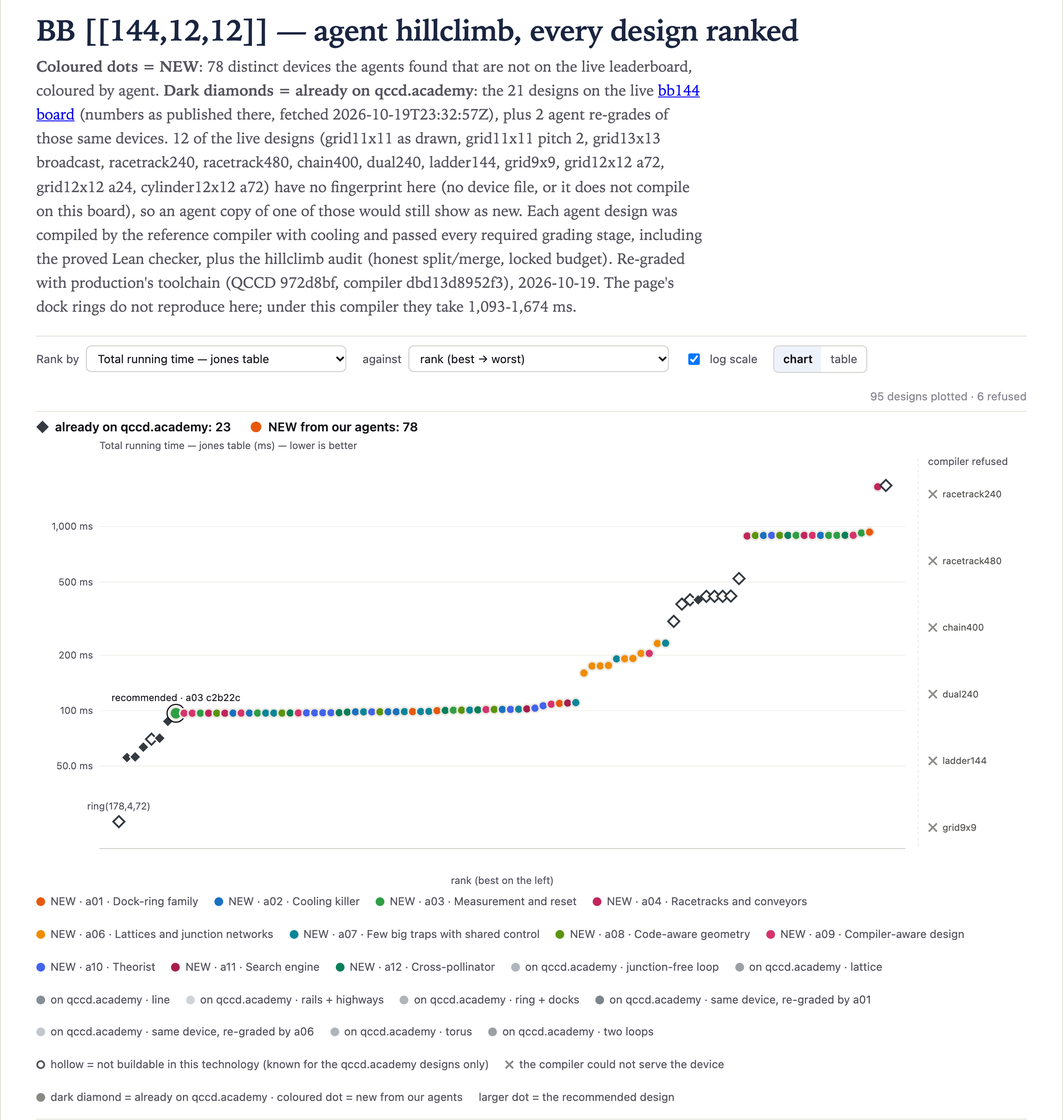
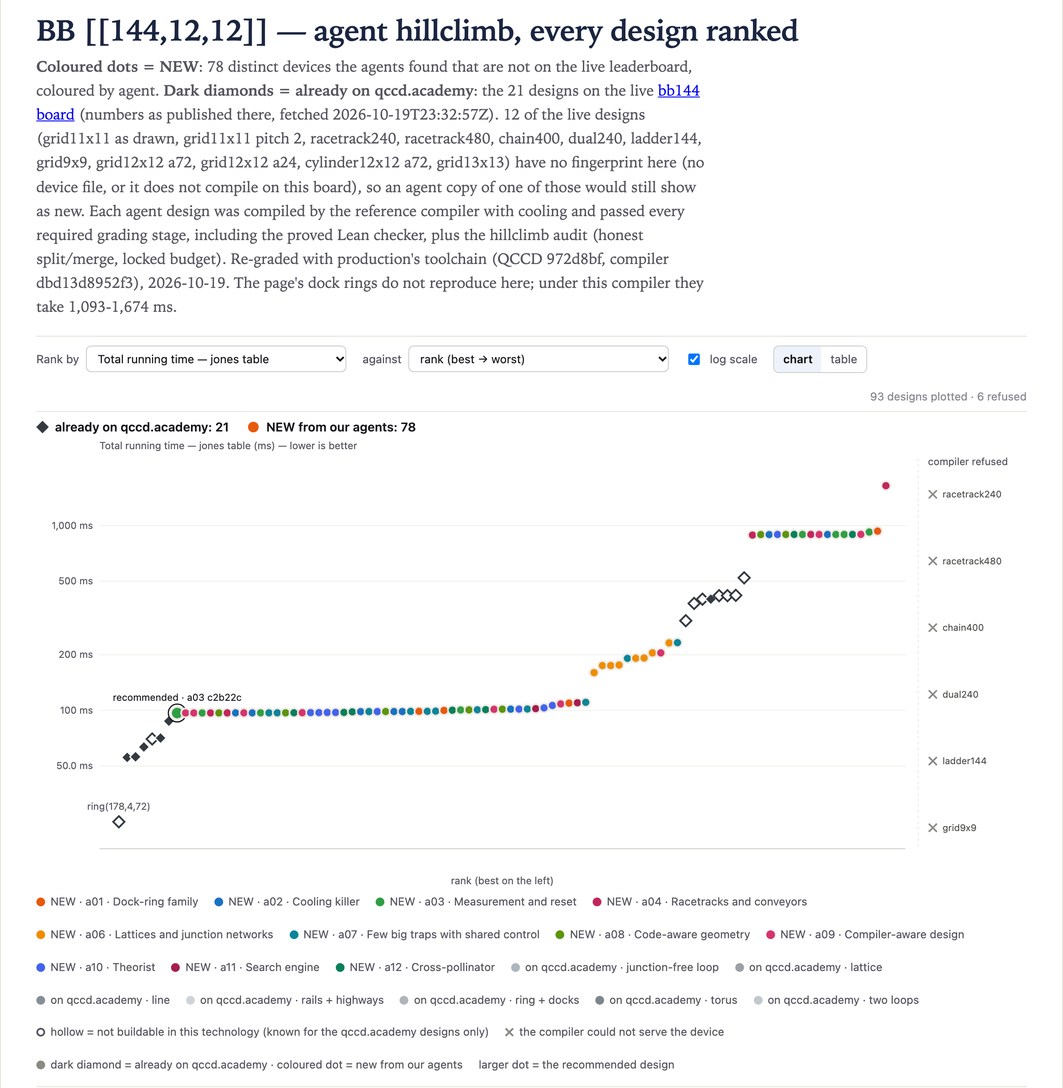
bb144: correct what the review found, name the toolchain, redraw the chart
- The comparison target is the page's `grid13x13 broadcast` (57 DACs), which Machine.grid(13, 13)
  rebuilds. The direct-wired `grid13x13` row (12,480 DACs) is outside the climb's rules.
- Nine agents reached 118.57 ms, not seven. The best honest lattice graded 174.8 ms, not 186, and no
  trap holds 18 ions.
- About 15 ms is fixed by the circuit; the 27 ms of cools depend on walk length. 10,929 counts
  transport instructions. 163 and 134.6 ms were local runs too large to submit.

- Live tables: a live design over the climb's 128-DAC budget is outside its rules even where a
  guessed rebuild passes, and every row where the page and the re-grade differ is listed.
- The chart draws each live design once; the agents' re-grades of live designs are left out, as in
  results.csv.
- The shared README and grade.py name yezhuoyang/QCCD's compiler branch at 972d8bf and give the
  toolchain steps: `qccd toolchain install` alone installs no checker. grade.py now times out after an
  hour, reports a failed grading job and closes its workspace.
- Numbers from the agents' search-time probes are marked as such; only graded designs were re-graded.
  The shared README says surface17's first four minutes ran on Opus 5 and names both graded exploits.
- grade.py, run under production's toolchain, reproduces every design file in this PR.

diff --git a/Codesign/hillclimb/grade.py b/Codesign/hillclimb/grade.py
@@ -2,8 +2,9 @@
 
 Each device is imported into a throwaway workspace, the board's circuit is compiled for it by the
 reference compiler (qccdc, compiler "auto"), and the result is frozen and graded under the reference
-profile. Run it from a checkout of the `compiler` branch (972d8bf or later) with the toolchain
-installed (`qccd toolchain install`), from the repository root:
+profile. Run it from the root of a checkout of yezhuoyang/QCCD's `compiler` branch at 972d8bf with
+this folder copied in, with compiler dbd13d8952f3 and a qcheck built from that checkout (README.md
+has the steps):
 
     python Codesign/hillclimb/grade.py rep9@1 Codesign/hillclimb/rep9/designs/*.arch.json
 
@@ -31,8 +32,11 @@ USER = {"kind": "human", "id": "cli"}
 DONE = ("succeeded", "failed", "cancelled", "timeout", "internal_error")
 
 
-def wait(ws: Workspace, job_id: str) -> dict:
+def wait(ws: Workspace, job_id: str, timeout: float = 3600.0) -> dict:
+    t0 = time.time()
     while (job := ws.job(job_id))["status"] not in DONE:
+        if time.time() - t0 > timeout:
+            raise SystemExit(f"timed out waiting for {job_id}")
         time.sleep(0.3)
     return job
 
@@ -42,17 +46,22 @@ def grade(board: str, path: Path) -> str:
     base = base_from_arch(arch)
     with tempfile.TemporaryDirectory() as tmp:
         ws = Workspace.init(Path(tmp) / "ws", board)
-        change = ws.apply_change_set({"expected_revision": ws.head().revision, "request_id": "import", "mode": "apply",
-                                      "summary": "import", "operations": [{"type": "studio_sync", "base": {
-                                          "geom": base.geom, "seed": base.seed, "post": base.post}}]}, USER)
-        if change.get("status") != "committed":
-            return f"import refused: {change}"
-        job = wait(ws, ws.submit_design(USER, board=board, profile="reference")["job_id"])
-        result = job.get("result") or {}
-        if job["status"] != "succeeded":
-            return f"submit {job['status']}: {(result.get('log') or job.get('error'))}"[-600:]
-        wait(ws, result["grading_job"])
-        report = ws.submission(result["submission_id"])["report"] or {}
+        try:
+            sync = {"type": "studio_sync", "base": {"geom": base.geom, "seed": base.seed, "post": base.post}}
+            change = ws.apply_change_set({"expected_revision": ws.head().revision, "request_id": "import",
+                                          "mode": "apply", "summary": "import", "operations": [sync]}, USER)
+            if change.get("status") != "committed":
+                return f"import refused: {change}"
+            job = wait(ws, ws.submit_design(USER, board=board, profile="reference")["job_id"])
+            result = job.get("result") or {}
+            if job["status"] != "succeeded":
+                return f"submit {job['status']}: {str(result.get('log') or job.get('error'))[-600:]}"
+            graded = wait(ws, result["grading_job"])
+            if graded["status"] != "succeeded":
+                return f"grading {graded['status']}: {graded.get('error')}"
+            report = ws.submission(result["submission_id"])["report"] or {}
+        finally:
+            ws.close()
     metric = report.get("rank_by")
     value = ((report.get("metrics") or {}).get(metric) or {}).get("value")
     eligibility = report.get("eligibility") or {}

diff --git a/Codesign/hillclimb/bb144/README.md b/Codesign/hillclimb/bb144/README.md
@@ -1,6 +1,6 @@
 # bb144@1 · BB [[144,12,12]] — 96.74 ms
 
-**Best: 96.74 ms**, against 417.89 ms for the best live design that reproduces here (`grid13x13`).
+**Best: 96.74 ms**, against 417.89 ms for the best live design that reproduces here (`grid13x13 broadcast`).
 The page also lists lattices that cannot be rebuilt here, with no device file or generator: among
 them `grid12x12 a72` at 305.70 ms and `grid12x12 a24` at 419.47 ms. The board's circuit reads its
 checks through 24 ancillas. 96.74 ms is 3.16× faster than the a72 row too.
@@ -11,29 +11,34 @@ not apply, because there are no docks.
 
 | | cool | gates | measure | reset | shuttle | total |
 |---|---:|---:|---:|---:|---:|---:|
-| ms | 27.0 (90 cools) | 4.69 | 7.56 (63 instructions) | 2.85 | 54.65 (10,929 moves) | **96.74** |
+| ms | 27.0 (90 cools) | 4.69 | 7.56 (63 instructions) | 2.85 | 54.65 (10,929 transport instructions of 5 µs) | **96.74** |
 
 How the agents got there:
 
-1. **One ion per trap.** Packed traps of 12 to 18 ions on grids and tori route, but every move
-   crosses a junction (100–120 µs, +3 quanta), and one ion passes a junction per cycle. The best of
-   those was 186 ms. With 168 traps or more, the placer puts one ion in each, so traps always have
-   room and ions walk through each other's traps. On a cycle nothing is a junction: a hop is a 5 µs
-   shuttle at +0.1 quanta. `chain(170)` gives 163 ms.
-2. **Data first in node order** (134.6 → 110.6 ms). `Compile.meet` puts a gate in the first trap in
-   node order among the traps at least summed distance, and on a cycle the whole shorter arc ties.
-   Listing the traps that hold data qubits first makes the ancilla walk to the data, instead of the
-   data walking out and back.
-3. **One loop** (→ 103.1 ms). Declaring every segment as the closed loop `L0` gives every clockwise
-   hop one waveform label.
+1. **One ion per trap.** On grids, tori and other junction networks of 16 to 31 traps, the placer
+   packs ions up to each trap's capacity of 12 to 15. These devices route, but every move crosses a
+   junction (100–120 µs, +3 quanta), and one ion passes a junction per cycle. The best honest one
+   graded 174.8 ms, with its junctions split into two declared loops (a06); with plain lab-frame
+   labels the best was 191.1 ms. With 168 traps or more, the placer puts one ion in each, so traps
+   always have room and ions walk through each other's traps. On a cycle nothing is a junction: a
+   hop is a 5 µs shuttle at +0.1 quanta. `chain(170)` gives 163 ms in a local run during the search,
+   but its program is too large for the workspace to accept.
+2. **Data first in node order** (134.6 ms in a local run, too large to submit → 110.6 ms graded).
+   `Compile.meet` puts a gate in the first trap in node order among the traps with the least summed
+   distance, and on a cycle the whole shorter arc ties. Listing the traps that hold data qubits first
+   makes the ancilla walk to the data more often, and it made the program small enough to submit.
+   Data ions still make most of the hops (about 60–70% in the agents' counts).
+3. **One loop** (→ 106.3 ms, and 103.1 ms with the data-first order re-iterated). Declaring every
+   segment as the closed loop `L0` gives every clockwise hop one waveform label.
 4. **Node and segment order** (→ 96.74 ms). Several agents hill-climbed and annealed the order in
    which the file lists nodes and segments. That changes the router's tie-breaks and nothing else
    about the device.
 
-About 42 ms is fixed by the circuit. The router's ASAP layering gives 89 MS layers. Every one needs a
-cool, because the longest walk in a layer is 17 to 90 hops. Measurement, gates and resets add the
-rest. All of the remaining 55 ms is transport. Peak occupancy is about 9 ions for a moment, and
-capacity 6 gives the same time within noise, so the design does not win through long chains.
+About 15 ms (gates, measurement, reset) is fixed by the circuit's ASAP layers. The router's 89 MS
+layers each need a cool, because the longest walk in a layer is 17 to 90 hops: 90 cools, 27 ms. So
+this family pays about 42 ms before transport, and the remaining 55 ms is transport. Peak occupancy
+is about 9 ions for a moment, and capacity 6 gave the same time within noise in the agents' local
+runs, so the design does not win through long chains.
 
 The top of the board is one family: every design in the table below is this cycle, with a different
 node and segment order. Over the run's last half hour, order search gained only 0.2 ms
@@ -45,8 +50,9 @@ Before the cycle took over, the best devices were dock rings for the rotation pa
 carries 24 dock spurs on consecutive rail slots, and the dock traps are named so that the compiler's
 string-sorted dock order hands dock k to ancilla k. Every check then has its contacts at the same
 rotation offsets for almost all 24 ancillas. Under `c7c535380bfb`, the rotation pass batched them into
-60 dock/gate/undock batches and 702 one-slot hops: **118.57 ms**. Seven agents reached that number,
-within the run's first hour.
+60 dock/gate/undock batches and 702 one-slot hops: **118.57 ms**. Nine agents reached that number
+within the run's first hour. `results.csv` keeps one row per device, so it credits seven: a01 and a05
+graded the same devices as a12 and a10.
 
 `dbd13d8952f3` never reorders a qubit's gates, so the pass can no longer commute CX gates into
 shared batches. The same devices now take **896.28 ms**, and the 16 dock rings of this family in
@@ -55,31 +61,32 @@ shared batches. The same devices now take **896.28 ms**, and the 16 dock rings o
 ## The live page's dock rings
 
 The board's page lists dock rings far faster than anything here: `ring(178,4,72)` at 24.93 ms and
-`ring(143,3,36)` (the page's answer) at 55.62 ms. They were rebuilt from their generator calls and
-graded with the board's circuit and the reference compiler's own placement. Under the old compiler
-they took 480–680 ms. Under production's they take 1,093–1,674 ms, for the same reason as the
-conveyor family above. The study's sweep changed the ancilla count, and some of its rows used a
-code-aware placement, which a device-only submission cannot pass. The page's bb144 numbers also
-predate `dbd13d8952f3`. The best live design that reproduces is the lattice `grid13x13`, whose time
-does not depend on the rotation pass.
+`ring(143,3,36)` (the page's answer) at 55.62 ms. They were rebuilt from their device files or
+generator calls and graded with the board's circuit and the reference compiler's own placement.
+Under the old compiler they took 480–680 ms. Under production's they take 1,093–1,674 ms, for the
+same reason as the conveyor family above. The study's sweep changed the ancilla count, and some of
+its rows used a code-aware placement, which a device-only submission cannot pass. The page's bb144
+numbers also predate `dbd13d8952f3`. The best live design that reproduces is the lattice
+`grid13x13 broadcast`, whose time does not depend on the rotation pass.
 
 ## Exploits the agents found
 
 - **Deleting the `dock`/`undock` classes** (not used). The conveyor then falls back to the
-  entail-free `shuttle` class for docking, with no split/merge and no cools: 99.07 ms on the dock ring
-  under the old compiler. It is eligible, but it dodges the honest split/merge rule, so it was never
-  logged. Four agents found it.
+  entail-free `shuttle` class for docking, so no split/merge is charged (cools stay at one per
+  batch): 99.07 ms on the dock ring under the old compiler. It is eligible, but it dodges the honest
+  split/merge rule, so it was never logged. Four agents found it.
 - **Every node at the same position** (not used). Without a declared loop, hops are labelled by
   lab-frame direction, so this would give every hop the label "0". The audit now rejects zero-length
   segments.
 - **One loop through junctions** (logged). `1792354367-a06-22c1d83f` (160.085 ms, in `results.csv`)
   declares one. The verifier labels hops into and out of an off-loop trap `spur:inward/outward` even
   when both ends of that trap are loop junctions, so opposite moves share one waveform. The honest
-  two-loop version is about 175–182 ms. It is far from the top, but it relies on that quirk.
+  two-loop version of the same torus graded 174.9 ms. It is far from the top, but it relies on that
+  quirk.
 
 ## The designs
 
-Every graded design ranked, beside the live designs (grey), as on the board's page:
+Every graded design ranked, beside the live designs (dark diamonds), as on the board's page:
 
 ![bb144: every design ranked](chart.png)
 
@@ -115,19 +122,19 @@ The board's page as fetched at 2026-10-19 23:32 UTC; its numbers were not regene
 | `ring(177,5,36)` | 56.045 | 1265.035 | yes | yes | Machine.ring(177, 5, 36) |
 | `ring(191,3,48)` | 63.32 | 1223.09 | yes | yes | Machine.ring(191, 3, 48) |
 | `ring(178,4,72)` | 24.93 | 1673.82 | yes | yes | Machine.ring(178, 4, 72) |
-| `grid13x13` | 417.94 | 417.89 | yes | yes | Machine.grid(13, 13) (guess) |
-| `grid11x11 as drawn` | 400.045 | — | — | — | no device file or generator to rebuild it |
-| `grid11x11 pitch 2` | 400.045 | — | — | — | no device file or generator to rebuild it |
-| `grid13x13 broadcast` | 417.94 | — | — | — | no device file or generator to rebuild it |
+| `grid13x13` | 417.94 | — | — | no (12,480 DACs) | no device file for this direct-wired version; `grid13x13 broadcast` is the same lattice and programme |
+| `grid11x11 as drawn` | 400.045 | — | — | no (8,800 DACs) | no device file or generator to rebuild it |
+| `grid11x11 pitch 2` | 400.045 | — | — | no (8,800 DACs) | no device file or generator to rebuild it |
+| `grid13x13 broadcast` | 417.94 | 417.89 | yes | yes | Machine.grid(13, 13) (guess) |
 | `racetrack240` | — | — | — | — | no device file or generator to rebuild it |
 | `racetrack480` | — | — | — | — | no device file or generator to rebuild it |
 | `chain400` | — | — | — | — | no device file or generator to rebuild it |
 | `dual240` | — | — | — | — | no device file or generator to rebuild it |
 | `ladder144` | — | — | — | — | no device file or generator to rebuild it |
 | `grid9x9` | — | — | — | — | did not compile here |
-| `grid12x12 a72` | 305.695 | — | — | — | no device file or generator to rebuild it |
-| `grid12x12 a24` | 419.465 | — | — | — | no device file or generator to rebuild it |
-| `cylinder12x12 a72` | 379.355 | — | — | — | no device file or generator to rebuild it |
+| `grid12x12 a72` | 305.695 | — | — | no (10,560 DACs) | no device file or generator to rebuild it |
+| `grid12x12 a24` | 419.465 | — | — | no (10,560 DACs) | no device file or generator to rebuild it |
+| `cylinder12x12 a72` | 379.355 | — | — | no (11,040 DACs) | no device file or generator to rebuild it |
 
-The page's numbers replay the study's own schedules (`T_source: replay`). Here each design is compiled by the reference compiler with its own placement. The two differ for `ring144_24v stride`, `ring144_24v code-aware`, `ring(95,3,24)`, `ring(106,4,24)`, `ring(143,3,36)`, `ring(177,5,36)`, `ring(191,3,48)`, `ring(178,4,72)`.
+The page's numbers replay the study's own schedules (`T_source: replay`). Here each design is compiled by the reference compiler with its own placement. The two differ for `ring144_24v stride`, `ring144_24v code-aware`, `ring(95,3,24)`, `ring(106,4,24)`, `ring(143,3,36)`, `ring(177,5,36)`, `ring(191,3,48)`, `ring(178,4,72)`, `grid13x13 broadcast`.
 <!-- /live -->

diff --git a/Codesign/hillclimb/README.md b/Codesign/hillclimb/README.md
@@ -1,20 +1,25 @@
 # Hillclimb · agent-designed devices for five architecture boards
 
-Teams of Claude Code agents (Opus 5.5) searched for trapped-ion QCCD **devices** with the lowest
-`T_jones` on five qccd.academy architecture boards, one board at a time, between 2026-10-18 and
-2026-10-19. This folder holds the best devices of every board, the numbers of every distinct device
-they graded, and a script that grades them again.
+Teams of Claude Code agents searched for trapped-ion QCCD **devices** with the lowest `T_jones` on
+five qccd.academy architecture boards, one board at a time, between 2026-10-18 and 2026-10-19. They
+ran on Opus 5.5, except for their first four minutes on `surface17` (05:37 to 05:41 UTC), which ran
+on Opus 5. Those minutes made 37 of the board's 81 grades, including those of two of its seven
+picks, `bingran-agent-4` and `-6`. This folder holds the best devices of every board, the numbers
+of every new distinct device they graded that passed this climb's audit, and a script that grades
+them again.
 
-**Every number here was re-graded with the toolchain production runs since 2026-10-19 20:30 UTC**:
-the Python of QCCD `972d8bf`, compiler `dbd13d8952f3` (the published Linux build, sha256 `9897b5f6…`)
-and qcheck built from `972d8bf` (sha256 `4c78a9d5…`, the same bytes as production's). The search
-itself ran on compiler `c7c535380bfb`, since withdrawn. Each board's `results.csv` keeps both numbers.
-Nothing has been submitted to the official leaderboard.
+**Every device in the `results.csv` files, and every live design that could be rebuilt, was
+re-graded with the toolchain production runs since 2026-10-19 20:30 UTC**: the Python of QCCD
+`972d8bf`, compiler `dbd13d8952f3` (the published Linux build, sha256 `9897b5f6…`) and qcheck built
+from `972d8bf` (sha256 `4c78a9d5…`, the same bytes as production's). The search itself ran on
+compiler `c7c535380bfb`, since withdrawn. Each board's `results.csv` keeps both numbers. Numbers
+from the agents' probes, marked as such, are from the search under `c7c535380bfb` and were not
+re-graded. Nothing has been submitted to the official leaderboard.
 
 | board | best here | best live design, graded the same way | faster by | the device |
 |---|---:|---:|---:|---|
 | [`surface17@1`](surface17/) | **1.585 ms** | 2.045 ms (`stationary_chain`) | 1.29× | 5 traps on a junction-free cycle, direct wiring, 120 DACs |
-| [`bb144@1`](bb144/) | **96.74 ms** | 417.89 ms (`grid13x13`) | 4.32× | 168 traps on a junction-free cycle declared as one loop, broadcast wiring, 46 DACs |
+| [`bb144@1`](bb144/) | **96.74 ms** | 417.89 ms (`grid13x13 broadcast`) | 4.32× | 168 traps on a junction-free cycle declared as one loop, broadcast wiring, 46 DACs |
 | [`steane@1`](steane/) | **1.44 ms** | 1.825 ms (`stationary_chain`) | 1.27× | 5 traps on a junction-free cycle, direct wiring, 120 DACs |
 | [`five_qubit@1`](five_qubit/) | **1.62 ms** | 1.815 ms (`stationary_chain`) | 1.12× | 6 traps on a junction-free cycle, broadcast wiring, 33 DACs |
 | [`rep9@1`](rep9/) | **1.305 ms** | 1.99 ms (`stationary_chain`) | 1.52× | a 20-site race track: gate-only traps between readout-only sites, 34 DACs |
@@ -37,19 +42,33 @@ Codesign/hillclimb/
   grade.py          grade device files on a board, as `qccd submit --local` does
   <board>/
     README.md       the winning device, why it is fast, the top designs and the live designs
-    chart.png       every graded design ranked, beside the live designs, as on the board's page
-    designs/        the 10 best distinct devices (surface17 also has its 7 picks), as .arch.json
-    results.csv     every distinct device the agents graded, both numbers, eligibility and audit
+    chart.png       every graded design that passed the audit, ranked beside the live designs, as on the board's page
+    designs/        the best distinct devices, up to 10 (surface17 also has its 7 picks), as .arch.json
+    results.csv     every new distinct device the agents graded that passed the audit, both numbers, eligibility and audit
 ```
 
-To grade them again, from a checkout of the `compiler` branch (`972d8bf` or later) with the
-toolchain installed (`qccd toolchain install`), in the repository root:
+To grade them again, use yezhuoyang/QCCD's `compiler` branch at `972d8bf` with this folder copied
+in. `grade.py` needs `qccd.workspace`, which `main` does not have, and this fork's `compiler` branch
+does not contain `972d8bf`. From the root of a checkout that has `Codesign/hillclimb`:
 
 ```bash
+git fetch https://github.com/yezhuoyang/QCCD compiler
+git worktree add ../qccd-compiler 972d8bf
+cp -R Codesign/hillclimb ../qccd-compiler/Codesign/
+cd ../qccd-compiler
+pip install -e '.[agent]'                  # `qccd`, and stim, qiskit and numpy for the semantics stage
+qccd toolchain install                     # compiler dbd13d8952f3, on Linux or Windows (x86-64) only
+(cd Compiler/lean/checker && lake build)   # qcheck
 python Codesign/hillclimb/grade.py rep9@1 Codesign/hillclimb/rep9/designs/*.arch.json
 ```
 
-`main` has no `qccd.workspace`, which `grade.py` needs, so run it from `compiler`.
+At `972d8bf`, `qccd toolchain install` installs no checker on any platform, and no compiler on
+macOS. Without qcheck the required `lean_certificate` stage is `unsupported`, so every design comes
+out not eligible. `lake build` needs Lean's `elan`, which fetches the pinned
+`leanprover/lean4:v4.29.0-rc2`. On macOS, build the compiler from source too: OCaml 5.3 with opam,
+`opam install dune yojson.2.2.2`, then `dune build bin/qccdc_cli.exe` in `Compiler/ocaml`, whose tree
+at `972d8bf` is `dbd13d8952f3`. The evaluator takes `QCCD_QCCDC` and `QCCD_QCHECK` if they are set,
+then a build in the checkout, then what `qccd toolchain install` installed.
 
 ## How the search ran
 
@@ -76,25 +95,32 @@ this climb's own audit:
    junction. No segment joins two nodes at the same position.
 4. **Physics unchanged.** The primitives, heating, species and budget blocks are the board's.
 
-Agents could probe as much as they liked with a local copy of the compiler, but only graded designs
-count. Anything that lowered `T_jones` by exploiting the grader rather than improving the device was
-written up and, with one exception noted in [`bb144/`](bb144/), not graded. Each board's README lists
-them.
+Agents could probe as much as they liked (a local copy of the compiler, or `hc-grade --no-log`,
+which grades without logging), but only grades logged on the shared board count. On `surface17`, two
+of them failed the audit: a06's direct-wired `grid(2,3)` and `grid(3,3)`, at 168 and 288 DACs. They
+are among the 81 grades but not the 66 devices, and were not re-graded. Anything that lowered
+`T_jones` by exploiting the grader rather than improving the device was written up and, with two
+exceptions, not logged: one loop through junctions on [`bb144`](bb144/), and a line whose rails pass
+over other traps on [`five_qubit`](five_qubit/) (#2). On `five_qubit`, a02 also argued that the
+winner relies on coarse hop labels (only the signs of dx and dy), which let hops at different angles
+share one waveform; a04 counted it as honest. Each board's README lists what its agents found.
 
 ## What carried over between boards
 
 - **No junctions.** Every winner is junction-free. A junction crossing costs 100–120 µs and +3
   quanta, which soon forces a 300 µs cool; a hop along a cycle costs 5 µs and +0.1 quanta.
 - **The general router's fixed part.** It emits one measure instruction per ASAP layer of the
-  circuit as written, and one MS instruction per layer, so cooling, gates and readout are the same
-  on every device. A device only changes transport and the cools that transport causes. On
-  `surface17` that floor is 1.505 ms + 5 µs per transport instruction. On `steane` the agents
-  derived `T_jones ≥ 1.400 ms` for any device.
+  circuit as written, and one MS instruction per layer, unless a layer has more gates than there
+  are gate traps (R12); then the layer splits into extra rounds. On a device with enough gate traps,
+  the state-prep cool, gates and readout are fixed, and the device only changes transport and the
+  cools that transport causes. On `surface17` that floor is 1.505 ms + 5 µs per transport
+  instruction. On `steane` the agents derived `T_jones ≥ 1.400 ms` for any device.
 - **Document order is a lever.** The placer and the meeting-point choice break ties by node and
   segment order in the device file, so the agents searched that order. The geometry, wiring and
   physics do not change, but the compiled schedule does. On `bb144`, listing the data traps first
-  took the cycle from 134.6 to 110.6 ms, and order search took it from 103.1 to 96.74 ms. Read these
-  numbers as "this device, as written, under the reference compiler".
+  took the cycle from 134.6 ms (a search-time probe, never graded) to 110.6 ms, and order search took
+  it from 103.1 to 96.74 ms. Read these numbers as "this device, as written, under the reference
+  compiler".
 - **Leaving the general router.** On `rep9` the general router cannot route a loop of capacity-1
   sites, and the rotation pass declines (no docks), so the compiler falls back to the race-track pass.
   With gate traps that cannot measure, that pass holds every readout back and reads all 8 ancillas
@@ -119,8 +145,10 @@ agents' re-grades of live designs, which were matched by device and by program.
 
 - **Split and merge are not charged on `shuttle`.** The router moves ions with the seed's `shuttle`
   class, which entails no split or merge, so an ion joining or leaving a multi-ion chain pays neither.
-  The designs here rely on this convention, and so do the live ones. Under honest
-  split/merge, `surface17`'s 1.595 ms 4-cycle would take 7.18 ms and `cyclone_base` 23.5 ms.
+  The designs here rely on this convention, and so do the live ones. Under honest split/merge, a
+  search-time probe by `surface17`'s a02 put its own 1.595 ms 4-cycle at 7.18 ms (10 cools, and a
+  program that breaks R14, so it would be refused) and `cyclone_base` at 23.5 ms. Neither number
+  was re-graded.
 - **The audit is this climb's.** The official evaluator checks neither the DAC budget nor direct-wiring
   cost. All designs here pass both, but the official board would accept designs that do not.
 - **Ties.** Many devices tie at the top. Ties are ordered by the search grade and then by time,
